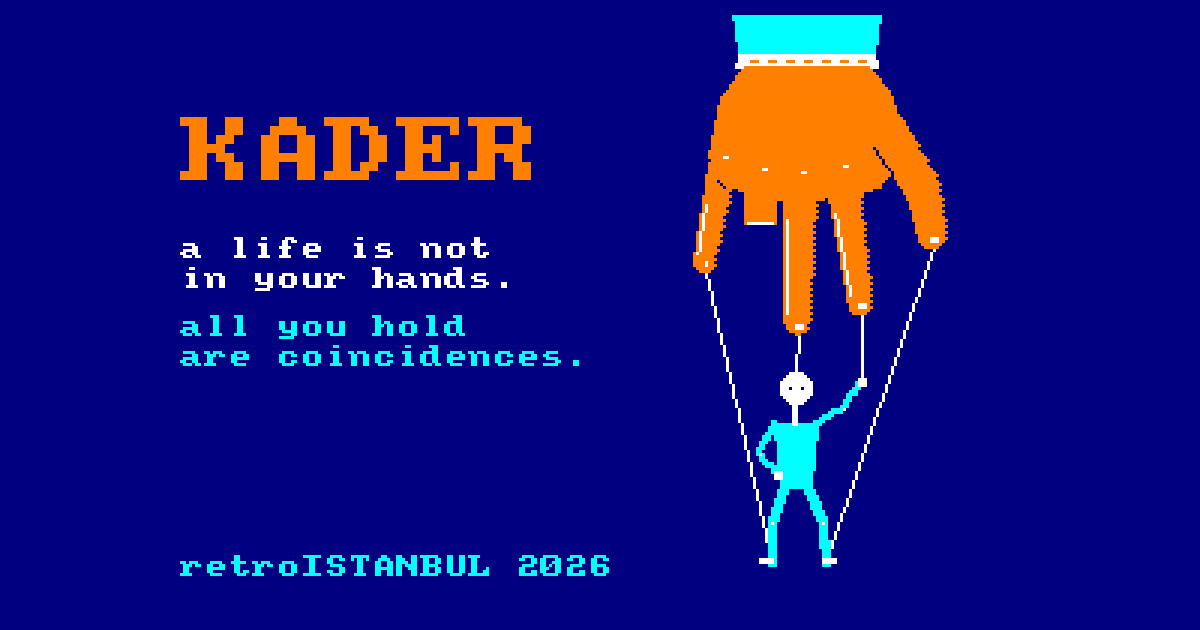
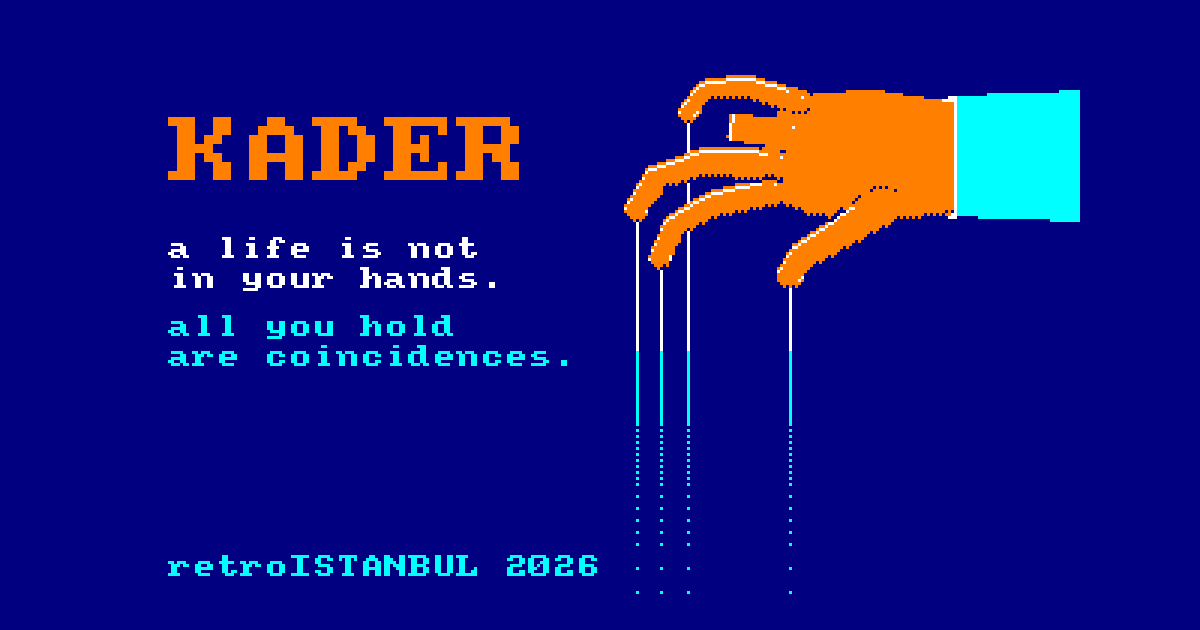
feat(kader): el görseli yandan görünüm (Yusuf düzeltmesi): kukla yok, 4 ip dither ile soluyor, kesik yüzük parmağı ipsiz; 3. bölüm metni ve kesitleri, başlık ve kart görseli yeni ele geçti

diff --git a/public/okul-projeleri/kader/index.html b/public/okul-projeleri/kader/index.html
@@ -17,7 +17,7 @@
 <meta name="theme-color" content="#000080">
 <link rel="icon" href="/okul-projeleri/kader/varliklar/el-sprite.png">
 <link rel="preload" href="/okul-projeleri/kader/varliklar/kader-cpc.woff2" as="font" type="font/woff2" crossorigin>
-<link rel="stylesheet" href="/okul-projeleri/kader/varliklar/kader.css?v=1">
+<link rel="stylesheet" href="/okul-projeleri/kader/varliklar/kader.css?v=2">
 </head>
 <body>
 <header class="ust">
@@ -39,7 +39,7 @@
       <p class="alt">A life simulation for the Amstrad CPC.</p>
     </div>
     <div class="sahne-kutu">
-      <canvas class="sahne" width="128" height="200" role="img" aria-label="A puppeteer's hand holds a puppet by four strings. Its ring finger is missing, so one of the puppet's arms has no string and moves on its own."></canvas>
+      <canvas class="sahne" width="200" height="200" role="img" aria-label="A puppeteer's hand, seen from the side, holds four strings that fall and fade into the dark. Its ring finger is cut short and holds no string."></canvas>
     </div>
   </div>
   <p class="ipucu"><span class="tus"><kbd>→</kbd> or <kbd>space</kbd></span><span class="dokun">scroll</span></p>
@@ -77,20 +77,21 @@
   <div class="ic">
     <div class="kesitler">
       <figure class="kesit parmak">
-        <div class="resim" role="img" aria-label="Close-up: the ring finger ends in a clean cut and has no string."></div>
+        <div class="resim" role="img" aria-label="Close-up: the ring finger ends in a clean cut."></div>
         <span class="isaret" aria-hidden="true"></span>
-        <p>no finger, no string</p>
+        <p>a cut finger</p>
       </figure>
-      <figure class="kesit kol">
-        <div class="resim" role="img" aria-label="Close-up: the puppet's free arm rests on its hip."></div>
+      <figure class="kesit ip">
+        <div class="resim" role="img" aria-label="Close-up: four strings hang from the hand, with an empty place where the fifth would be."></div>
         <span class="isaret" aria-hidden="true"></span>
-        <p>a free arm</p>
+        <p>a missing string</p>
       </figure>
     </div>
     <div>
       <h2>Fate holds the strings.<br>Not all of them.</h2>
       <div class="metin" data-yaz="16">
-        <p>One finger of the hand is missing. The arm it would pull moves on its own.</p>
+        <p>One finger is cut. It holds no string.</p>
+        <p class="vurgu">That missing string is your own will.</p>
         <p class="soru">Free will or fate? Every culture asks. KADER lets you play the question.</p>
       </div>
     </div>
@@ -208,7 +209,7 @@
 <!-- 8 -->
 <section class="ekran p-menu" id="kunye" aria-label="Credits">
   <div class="ic">
-    <img class="logo" src="/okul-projeleri/kader/varliklar/kader-baslik-320.png" width="320" height="200" alt="KADER title image: the hand with the missing ring finger and the puppet.">
+    <img class="logo" src="/okul-projeleri/kader/varliklar/kader-baslik-320.png" width="320" height="200" alt="KADER title image: a puppeteer's hand with a cut ring finger, holding four strings that fade into the dark.">
     <p class="ekip">Tulip / Aşko Kuşko</p>
     <p class="kisi">Süeda &amp; Yusuf</p>
     <p class="claude">designed with Claude (Anthropic)</p>
@@ -220,7 +221,7 @@
 </section>
 </main>
 
-<script>window.KADER_EL = {"n": 24, "w": 128, "h": 200, "x0": 96, "kareler": [{"serce": [29.0, 84.9], "orta": [60.0, 105.6], "isaret": [80.67, 97.09], "bas": [105.0, 77.2]}, {"serce": [28.93, 83.8], "orta": [60.0, 105.45], "isaret": [81.29, 96.38], "bas": [104.52, 77.41]}, {"serce": [28.88, 82.78], "orta": [60.01, 105.03], "isaret": [81.85, 95.72], "bas": [104.08, 77.61]}, {"serce": [28.86, 81.91], "orta": [60.03, 104.45], "isaret": [82.31, 95.14], "bas": [103.69, 77.77]}, {"serce": [28.85, 81.24], "orta": [60.04, 103.88], "isaret": [82.65, 94.7], "bas": [103.4, 77.89]}, {"serce": [28.84, 80.82], "orta": [60.05, 103.45], "isaret": [82.86, 94.41], "bas": [103.21, 77.96]}, {"serce": [28.84, 80.67], "orta": [60.05, 103.3], "isaret": [82.93, 94.32], "bas": [103.15, 77.99]}, {"serce": [28.84, 80.82], "orta": [60.05, 103.45], "isaret": [82.86, 94.41], "bas": [103.21, 77.96]}, {"serce": [28.85, 81.24], "orta": [60.04, 103.88], "isaret": [82.65, 94.7], "bas": [103.4, 77.89]}, {"serce": [28.86, 81.91], "orta": [60.03, 104.45], "isaret": [82.31, 95.14], "bas": [103.69, 77.77]}, {"serce": [28.88, 82.78], "orta": [60.01, 105.03], "isaret": [81.85, 95.72], "bas": [104.08, 77.61]}, {"serce": [28.93, 83.8], "orta": [60.0, 105.45], "isaret": [81.29, 96.38], "bas": [104.52, 77.41]}, {"serce": [29.0, 84.9], "orta": [60.0, 105.6], "isaret": [80.67, 97.09], "bas": [105.0, 77.2]}, {"serce": [29.28, 84.95], "orta": [60.0, 105.45], "isaret": [80.03, 97.79], "bas": [104.88, 75.72]}, {"serce": [29.54, 85.0], "orta": [60.01, 105.03], "isaret": [79.41, 98.42], "bas": [104.73, 74.35]}, {"serce": [29.77, 85.04], "orta": [60.03, 104.45], "isaret": [78.86, 98.96], "bas": [104.57, 73.18]}, {"serce": [29.94, 85.07], "orta": [60.04, 103.88], "isaret": [78.43, 99.37], "bas": [104.44, 72.29]}, {"serce": [30.05, 85.08], "orta": [60.05, 103.45], "isaret": [78.15, 99.63], "bas": [104.35, 71.73]}, {"serce": [30.09, 85.09], "orta": [60.05, 103.3], "isaret": [78.06, 99.72], "bas": [104.32, 71.54]}, {"serce": [30.05, 85.08], "orta": [60.05, 103.45], "isaret": [78.15, 99.63], "bas": [104.35, 71.73]}, {"serce": [29.94, 85.07], "orta": [60.04, 103.88], "isaret": [78.43, 99.37], "bas": [104.44, 72.29]}, {"serce": [29.77, 85.04], "orta": [60.03, 104.45], "isaret": [78.86, 98.96], "bas": [104.57, 73.18]}, {"serce": [29.54, 85.0], "orta": [60.01, 105.02], "isaret": [79.41, 98.42], "bas": [104.73, 74.35]}, {"serce": [29.28, 84.95], "orta": [60.0, 105.45], "isaret": [80.03, 97.79], "bas": [104.88, 75.72]}]};</script>
-<script src="/okul-projeleri/kader/varliklar/kader.js?v=1" defer></script>
+<script>window.KADER_EL = {"n": 24, "w": 200, "h": 200, "kareler": [{"bas": [104.42, 92.48], "isaret": [62.11, 86.19], "orta": [50.66, 65.13], "serce": [68.37, 34.21]}, {"bas": [104.09, 92.13], "isaret": [62.62, 86.77], "orta": [50.99, 65.76], "serce": [68.22, 33.42]}, {"bas": [103.68, 91.68], "isaret": [62.95, 87.18], "orta": [51.39, 66.55], "serce": [68.13, 32.77]}, {"bas": [103.25, 91.17], "isaret": [63.06, 87.39], "orta": [51.85, 67.45], "serce": [68.1, 32.32]}, {"bas": [102.81, 90.62], "isaret": [62.96, 87.39], "orta": [52.35, 68.39], "serce": [68.12, 32.09]}, {"bas": [102.39, 90.07], "isaret": [62.65, 87.18], "orta": [52.84, 69.31], "serce": [68.19, 32.11]}, {"bas": [102.02, 89.56], "isaret": [62.15, 86.76], "orta": [53.3, 70.15], "serce": [68.3, 32.37]}, {"bas": [101.73, 89.14], "isaret": [61.51, 86.15], "orta": [53.68, 70.86], "serce": [68.46, 32.85]}, {"bas": [101.52, 88.83], "isaret": [60.78, 85.38], "orta": [53.95, 71.39], "serce": [68.66, 33.52]}, {"bas": [101.41, 88.65], "isaret": [60.03, 84.5], "orta": [54.08, 71.72], "serce": [68.89, 34.32]}, {"bas": [101.4, 88.63], "isaret": [59.3, 83.56], "orta": [54.05, 71.82], "serce": [69.16, 35.2]}, {"bas": [101.5, 88.76], "isaret": [58.64, 82.64], "orta": [53.88, 71.69], "serce": [69.45, 36.09]}, {"bas": [101.69, 89.03], "isaret": [58.1, 81.8], "orta": [53.57, 71.33], "serce": [69.73, 36.94]}, {"bas": [101.98, 89.42], "isaret": [57.7, 81.11], "orta": [53.16, 70.77], "serce": [69.98, 37.69]}, {"bas": [102.34, 89.9], "isaret": [57.46, 80.63], "orta": [52.68, 70.02], "serce": [70.17, 38.29]}, {"bas": [102.76, 90.43], "isaret": [57.37, 80.4], "orta": [52.17, 69.15], "serce": [70.27, 38.72]}, {"bas": [103.21, 90.97], "isaret": [57.45, 80.43], "orta": [51.67, 68.2], "serce": [70.28, 38.93]}, {"bas": [103.65, 91.5], "isaret": [57.69, 80.72], "orta": [51.22, 67.25], "serce": [70.2, 38.93]}, {"bas": [104.06, 91.97], "isaret": [58.09, 81.25], "orta": [50.84, 66.35], "serce": [70.02, 38.71]}, {"bas": [104.4, 92.35], "isaret": [58.62, 81.96], "orta": [50.55, 65.59], "serce": [69.77, 38.27]}, {"bas": [104.64, 92.63], "isaret": [59.26, 82.8], "orta": [50.36, 65.01], "serce": [69.47, 37.65]}, {"bas": [104.77, 92.79], "isaret": [59.99, 83.7], "orta": [50.28, 64.65], "serce": [69.15, 36.88]}, {"bas": [104.78, 92.82], "isaret": [60.74, 84.61], "orta": [50.31, 64.56], "serce": [68.85, 36.01]}, {"bas": [104.66, 92.71], "isaret": [61.47, 85.45], "orta": [50.44, 64.72], "serce": [68.58, 35.1]}]};</script>
+<script src="/okul-projeleri/kader/varliklar/kader.js?v=2" defer></script>
 </body>
 </html>

diff --git a/public/okul-projeleri/kader/varliklar/kader.js b/public/okul-projeleri/kader/varliklar/kader.js
@@ -144,92 +144,31 @@
     let hazir = false;
     sprite.onload = () => { hazir = true; ciz(0); };
 
-    const set = (x, y, c) => { x = Math.round(x); y = Math.round(y); if (x >= 0 && y >= 0 && x < W && y < H) pix[y * W + x] = c; };
-    function cizgi(a, b, c, w = 1) {
-      const n = Math.ceil(Math.max(Math.abs(b[0] - a[0]), Math.abs(b[1] - a[1]))) + 1;
-      const lo = -Math.floor(w / 2); const hi = w - Math.floor(w / 2);
-      for (let i = 0; i <= n; i += 1) {
-        const t = i / n; const x = Math.round(a[0] + (b[0] - a[0]) * t); const y = Math.round(a[1] + (b[1] - a[1]) * t);
-        for (let dx = lo; dx < hi; dx += 1) for (let dy = lo; dy < hi; dy += 1) set(x + dx, y + dy, c);
-      }
+    const set = (x, y, c) => { if (x >= 0 && y >= 0 && x < W && y < H) pix[y * W + x] = c; };
+    // ipler: uçtan aşağı iner, CPC 4 renkte dither ile solar (beyaz > camgöbeği > seyrek nokta > boşluk)
+    function ipRenk(y) {
+      if (y < 112) return WH;
+      if (y < 136) return CY;
+      if (y < 158) return y % 2 === 0 ? CY : BG;
+      if (y < 180) return y % 4 === 0 ? CY : BG;
+      if (y < 194) return y % 8 === 0 ? CY : BG;
+      return BG;
     }
-    function disk(cx, cy, r, c) {
-      for (let y = Math.floor(cy - r - 1); y <= cy + r + 1; y += 1) {
-        for (let x = Math.floor(cx - r - 1); x <= cx + r + 1; x += 1) {
-          if ((x - cx) ** 2 + (y - cy) ** 2 <= r * r + 0.5) set(x, y, c);
-        }
-      }
-    }
-    // iki kemikli ters kinematik: omuz/kalça s, hedef t, uzunluklar a b, dirsek yönü yon (+1 sağa, -1 sola)
-    function ik(s, t, a, b, yon) {
-      let dx = t[0] - s[0]; let dy = t[1] - s[1];
-      let d = Math.hypot(dx, dy);
-      const dmax = a + b - 0.01; const dmin = Math.abs(a - b) + 0.5;
-      if (d > dmax) { dx *= dmax / d; dy *= dmax / d; d = dmax; }
-      if (d < dmin) { dx *= dmin / d; dy *= dmin / d; d = dmin; }
-      const al = Math.acos(Math.min(1, Math.max(-1, (a * a + d * d - b * b) / (2 * a * d))));
-      const taban = Math.atan2(dy, dx);
-      const c1 = taban + al; const c2 = taban - al;
-      const e1 = [s[0] + a * Math.cos(c1), s[1] + a * Math.sin(c1)];
-      const e2 = [s[0] + a * Math.cos(c2), s[1] + a * Math.sin(c2)];
-      const dirsek = (yon > 0 ? (e1[0] > e2[0]) : (e1[0] < e2[0])) ? e1 : e2;
-      return [dirsek, [s[0] + dx, s[1] + dy]];
-    }
-    const yumusak = (x) => x * x * (3 - 2 * x);
-    // serbest kol: kendi döngüsü (elin döngüsüyle eşleşmez)
-    function serbestKol(t, omuz) {
-      const P = 9.0; const u = (t % P) / P;
-      const bel = [1, 17]; const yukari = [-3, -19];
-      let h;
-      if (u < 0.30) h = bel;
-      else if (u < 0.40) { const k = yumusak((u - 0.30) / 0.10); h = [bel[0] + (yukari[0] - bel[0]) * k, bel[1] + (yukari[1] - bel[1]) * k]; }
-      else if (u < 0.75) { h = [yukari[0] - 3 * Math.sin((u - 0.40) * 2 * Math.PI * 5), yukari[1] + 1.5 * Math.abs(Math.sin((u - 0.40) * 2 * Math.PI * 5))]; }
-      else if (u < 0.85) { const k = yumusak((u - 0.75) / 0.10); h = [yukari[0] + (bel[0] - yukari[0]) * k, yukari[1] + (bel[1] - yukari[1]) * k]; }
-      else h = bel;
-      return ik(omuz, [omuz[0] + h[0], omuz[1] + h[1]], 10.5, 10.5, -1);
-    }
+    const IPLER = ['serce', 'orta', 'isaret', 'bas'];
+    const FAZ = { serce: 0, orta: 1.9, isaret: 3.3, bas: 4.6 };
     function ciz(t) {
       if (!hazir) return;
       pix.fill(BG);
-      const kare = AZ ? 0 : Math.floor(t * 6) % KARE.n;
-      const sx = AZ ? 0 : Math.round(2 * Math.sin(t * 0.7));
-      const sy = AZ ? 0 : Math.round(1.5 * Math.sin(t * 0.9 + 1));
+      const kare = AZ ? 0 : Math.floor(t * 5) % KARE.n;
       const A = KARE.kareler[kare];
-      const uc = (k) => [A[k][0] + sx, A[k][1] + sy];
-      const salin = AZ ? 0 : 1.2 * Math.sin(t * 1.3);
-      // gövde orta parmağın ipine asılı
-      const o = uc('orta');
-      const bas = [o[0] - 1 + salin, o[1] + 18.5];
-      const om = { l: [bas[0] - 7, bas[1] + 12], r: [bas[0] + 7, bas[1] + 12] };
-      const ka = { l: [bas[0] - 4, bas[1] + 33], r: [bas[0] + 4, bas[1] + 33] };
-      // sağ el işaret parmağının ipinde
-      const i = uc('isaret');
-      const [dsR, elR] = ik(om.r, [i[0], i[1] + 25], 10.4, 10.8, +1);
-      // ayaklar serçe ve başparmağın iplerinde (ip boyları sabit)
-      const s = uc('serce'); const b = uc('bas');
-      const [dzL, ayL] = ik(ka.l, [s[0] + 22, s[1] + 97.5], 12.6, 13, -1);
-      const [dzR, ayR] = ik(ka.r, [b[0] - 36, b[1] + 104.8], 12.6, 13, +1);
-      const [dsL, elL] = AZ ? ik(om.l, [om.l[0] + 1, om.l[1] + 17], 10.5, 10.5, -1) : serbestKol(t, om.l);
-      // ipler (önce, kuklanın ve elin arkasında)
-      cizgi(s, ayL, WH); cizgi(o, [bas[0], bas[1] - 5], WH); cizgi(i, elR, WH); cizgi(b, ayR, WH);
-      // bacaklar
-      cizgi(ka.l, dzL, CY, 3); cizgi(dzL, ayL, CY, 3); cizgi(ka.r, dzR, CY, 3); cizgi(dzR, ayR, CY, 3);
-      // gövde
-      for (let y = Math.round(om.l[1]); y <= Math.round(ka.l[1]); y += 1) {
-        const k = (y - om.l[1]) / (ka.l[1] - om.l[1]);
-        const xa = om.l[0] + (ka.l[0] - 1 - om.l[0]) * k; const xb = om.r[0] + (ka.r[0] + 1 - om.r[0]) * k;
-        for (let x = Math.round(xa); x <= Math.round(xb); x += 1) set(x, y, CY);
-      }
-      // kollar
-      cizgi(om.l, dsL, CY, 2); cizgi(dsL, elL, CY, 2); cizgi(om.r, dsR, CY, 2); cizgi(dsR, elR, CY, 2);
-      disk(elL[0], elL[1], 1.6, WH); disk(elR[0], elR[1], 1.6, WH);
-      set(dsL[0], dsL[1], WH); set(dsR[0], dsR[1], WH); set(dzL[0], dzL[1], WH); set(dzR[0], dzR[1], WH);
-      cizgi([ayL[0] - 3, ayL[1]], ayL, WH, 2); cizgi(ayR, [ayR[0] + 3, ayR[1]], WH, 2);
-      // boyun ve baş
-      cizgi([bas[0], bas[1] + 5], [bas[0], om.l[1]], WH, 2);
-      disk(bas[0], bas[1], 5.5, WH);
-      set(bas[0] - 2, bas[1], BG); set(bas[0] + 2, bas[1], BG);
-      // piksel tamponu -> tuval
+      IPLER.forEach((k) => {
+        const ux = A[k][0]; const uy = Math.round(A[k][1]);
+        const sal = AZ ? 0 : 1.6 * Math.sin(t * 1.1 + FAZ[k]) + 0.6 * Math.sin(t * 2.3 + FAZ[k] * 2);
+        for (let y = uy; y < H; y += 1) {
+          const f = (y - uy) / (H - uy);
+          set(Math.round(ux + sal * f * f), y, ipRenk(y));
+        }
+      });
       const d = img.data;
       for (let p = 0; p < W * H; p += 1) {
         const c = pix[p]; const q = p * 4;
@@ -237,12 +176,12 @@
       }
       ctx.clearRect(0, 0, W, H);
       ctx.putImageData(img, 0, 0);
-      ctx.drawImage(sprite, kare * W, 0, W, H, sx, sy, W, H);
+      ctx.drawImage(sprite, kare * W, 0, W, H, 0, 0, W, H);
     }
     // tam sayı ölçek: pikseller eşit kalsın
     function olcekle() {
       const kutu = cv.parentElement.getBoundingClientRect();
-      const k = Math.max(1, Math.floor(Math.min(kutu.height / H, kutu.width / W)));
+      const k = Math.max(1, Math.floor(Math.min(kutu.height / H, kutu.width / (W - 40)))); // soldaki 40 px boş, taşabilir
       cv.style.width = `${W * k}px`; cv.style.height = `${H * k}px`;
     }
     new ResizeObserver(olcekle).observe(cv.parentElement);

diff --git a/public/okul-projeleri/kader/varliklar/kader.css b/public/okul-projeleri/kader/varliklar/kader.css
@@ -68,13 +68,14 @@ p + p { margin-top: 12px; }
 
 /* ---------------------------------------------------------------- 1. kahraman */
 #giris { padding-top: 44px; padding-bottom: 44px; }
-#giris .ic { display: grid; grid-template-columns: 1fr auto; gap: 32px; align-items: center; height: calc(100svh - 88px); }
+#giris .ic { display: grid; grid-template-columns: 1fr; align-items: center; height: calc(100svh - 88px); }
+#giris .ic > div:first-child { position: relative; z-index: 1; }
 #giris h1 { font-size: calc(var(--u) * 8); line-height: 1; color: var(--turuncu); letter-spacing: 0; }
 #giris .motto { margin-top: 32px; font-size: calc(var(--u) * 1.5); }
 .satir { display: block; }
 #giris .alt { margin-top: 32px; color: var(--camgobegi); }
-.sahne-kutu { position: relative; height: 100%; width: min(42vw, 560px); }
-canvas.sahne { display: block; position: absolute; left: 50%; top: 50%; transform: translate(-50%, -50%); }
+.sahne-kutu { position: absolute; right: 0; top: 0; bottom: 0; width: 58vw; overflow: hidden; }
+canvas.sahne { display: block; position: absolute; right: 0; top: 50%; transform: translateY(-50%); }
 .ipucu { position: absolute; bottom: 20px; left: 50%; transform: translateX(-50%); color: var(--camgobegi); white-space: nowrap; }
 .ipucu kbd { font: inherit; color: var(--beyaz); }
 .ipucu .dokun { display: none; }
@@ -103,16 +104,17 @@ canvas.sahne { display: block; position: absolute; left: 50%; top: 50%; transfor
   background-size: calc(320px * var(--k)) calc(200px * var(--k));
   image-rendering: pixelated; border: 2px solid var(--camgobegi);
 }
-.kesit.parmak .resim { background-position: calc(-114px * var(--k)) calc(-42px * var(--k)); }
-.kesit.kol .resim { background-position: calc(-124px * var(--k)) calc(-112px * var(--k)); }
+.kesit.parmak .resim { background-position: calc(-180px * var(--k)) calc(-14px * var(--k)); }
+.kesit.ip .resim { background-position: calc(-170px * var(--k)) calc(-96px * var(--k)); }
 .kesit .isaret {
   position: absolute; border: 2px solid var(--turuncu); animation: imlec 0.8s steps(1) infinite;
 }
-.kesit.parmak .isaret { left: calc((136 - 114) * var(--k) * 1px); top: calc((52 - 42) * var(--k) * 1px); width: calc(16 * var(--k) * 1px); height: calc(22 * var(--k) * 1px); }
-.kesit.kol .isaret { left: calc((136 - 124) * var(--k) * 1px); top: calc((131 - 112) * var(--k) * 1px); width: calc(16 * var(--k) * 1px); height: calc(26 * var(--k) * 1px); }
+.kesit.parmak .isaret { left: calc(20 * var(--k) * 1px); top: calc(17 * var(--k) * 1px); width: calc(15 * var(--k) * 1px); height: calc(14 * var(--k) * 1px); }
+.kesit.ip .isaret { left: calc(30 * var(--k) * 1px); top: calc(4 * var(--k) * 1px); width: calc(12 * var(--k) * 1px); height: calc(48 * var(--k) * 1px); border-style: dashed; }
 .ekran:not(.aktif) .kesit .isaret { animation: none; }
 .kesit p { margin-top: 10px; color: var(--camgobegi); }
 #ipler .metin { font-size: calc(var(--u) * 1.5); }
+#ipler .vurgu { color: var(--turuncu); }
 #ipler .soru { margin-top: 32px; color: var(--camgobegi); }
 
 /* ---------------------------------------------------------------- 4. kader seçimi */
@@ -166,15 +168,15 @@ figcaption { margin-top: 8px; color: var(--i); }
 
 /* ---------------------------------------------------------------- 8. künye */
 #kunye .ic { text-align: center; display: grid; justify-items: center; gap: 0; }
-#kunye .logo { width: min(640px, 80vw); height: auto; }
-#kunye .ekip { font-size: calc(var(--u) * 2); color: var(--turuncu); margin-top: 32px; }
+#kunye .logo { width: min(576px, 80vw); height: auto; }
+#kunye .ekip { font-size: calc(var(--u) * 2); color: var(--turuncu); margin-top: 24px; }
 #kunye .kisi { font-size: calc(var(--u) * 1.5); margin-top: 8px; }
 #kunye .claude { color: var(--camgobegi); margin-top: 24px; }
 #kunye .yarisma { margin-top: 8px; }
-.indir { display: inline-block; margin-top: 32px; padding: 14px 22px; background: var(--turuncu); color: var(--lacivert); text-decoration: none; }
+.indir { display: inline-block; margin-top: 24px; padding: 14px 22px; background: var(--turuncu); color: var(--lacivert); text-decoration: none; }
 .indir:hover { background: var(--beyaz); }
 .indir.bekliyor { background: none; color: var(--camgobegi); border: 4px solid var(--camgobegi); }
-.altbilgi { margin-top: 40px; color: var(--camgobegi); }
+.altbilgi { margin-top: 28px; color: var(--camgobegi); }
 .altbilgi a { color: var(--beyaz); }
 .atif { margin-top: 16px; max-width: 46em; font-family: ui-monospace, monospace; font-size: 12px; line-height: 1.4; color: var(--camgobegi); opacity: 0.85; }
 
@@ -187,7 +189,7 @@ figcaption { margin-top: 8px; color: var(--i); }
 @media (max-width: 860px) {
   .ekran { padding: 64px 20px 48px; place-items: start center; }
   #giris .ic { grid-template-columns: 1fr; height: auto; gap: 8px; }
-  #giris .sahne-kutu { order: -1; width: 100%; height: 52svh; }
+  #giris .sahne-kutu { position: relative; order: -1; width: calc(100% + 20px); margin-right: -20px; height: 50svh; }
   #giris h1 { font-size: calc(var(--u) * 4); }
   #giris .motto { font-size: var(--u); margin-top: 16px; }
   #giris .alt { margin-top: 16px; }

diff --git a/src/data.js b/src/data.js
@@ -254,7 +254,7 @@ export const SCHOOL_PROJECTS = [
   {
     name: 'KADER',
     lead: 'Amstrad CPC için bir hayat simülasyonu. Oyuncu karakteri yönetmez, kaderi oynar: niyet karakterin, sonuç kaderin (retroISTANBUL 2026).',
-    image: { src: asset('/okul-projeleri-screens/kader-640.webp'), srcSet: `${asset('/okul-projeleri-screens/kader-640.webp')} 640w, ${asset('/okul-projeleri-screens/kader-1280.webp')} 1280w`, width: 1280, height: 800, alt: 'KADER başlık görseli: yüzük parmağı kesik bir kuklacı eli dört iple bir kuklayı tutuyor, kuklanın bir kolu serbest' },
+    image: { src: asset('/okul-projeleri-screens/kader-640.webp'), srcSet: `${asset('/okul-projeleri-screens/kader-640.webp')} 640w, ${asset('/okul-projeleri-screens/kader-1280.webp')} 1280w`, width: 1280, height: 800, alt: 'KADER başlık görseli: yandan görünen, yüzük parmağı kesik bir kuklacı eli; dört ip aşağı inip karanlıkta soluyor' },
     links: [
       // Statik tanıtım (İngilizce, sunum modu): public/okul-projeleri/kader/. Oyun repo: ~/Desktop/Projeler/kader
       { label: 'Tanıtım', url: '/okul-projeleri/kader/' }
